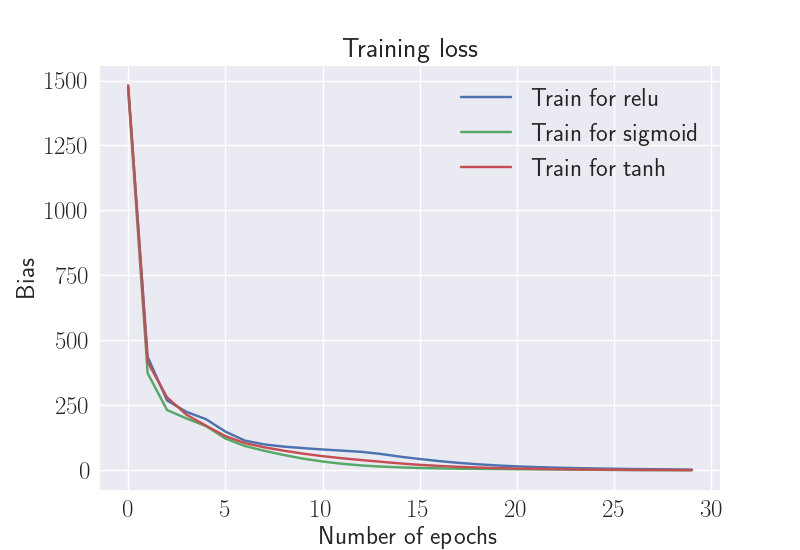
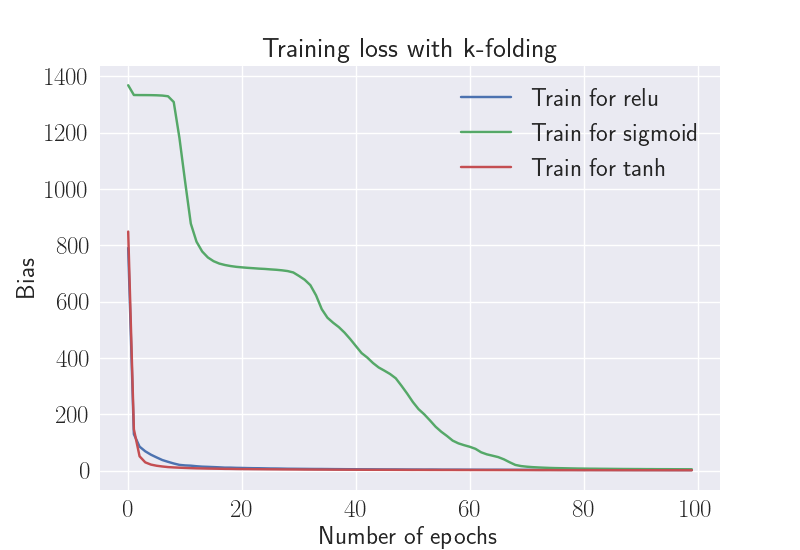
lagt til plott for simple og kfold

diff --git a/Project3/Code/run_NN.py b/Project3/Code/run_NN.py
@@ -8,25 +8,25 @@ from sklearn.preprocessing import StandardScaler
 from sklearn.decomposition import PCA
 
 from NN_methods import NeuralNetwork
-from plot import plot_bias_accuracy
+from plot import plot_bias_accuracy, plot_bias_accuracy_simple
 from common import prepare_data
 
 # Prepare some data
-# N_samples = 5000
-# eeg, pos_list = prepare_data(N_samples)
-eeg = np.load(f'data/eeg_100.npy')
-pos_list = np.load(f'data/pos_list_100.npy')
+N_samples = 5000
+eeg, pos_list = prepare_data(N_samples)
+#eeg = np.load(f'data/eeg_100.npy')
+#pos_list = np.load(f'data/pos_list_100.npy')
 pos_list = pos_list.T
 
 # Define initial parameters
 inputsize = eeg.shape[1]
 N_layers = 5
 N_neurons = 100
-N_epochs = 30 #100
+N_epochs = 100 #100 30
 batch_size = 30
 eta = 0.0001
 lmbd = 1e-6
-N_folds = 5 #10
+N_folds = 10 #10 5
 
 # Scale the data and append noice
 scaler = StandardScaler()
@@ -35,28 +35,39 @@ eeg = scaler.transform(eeg)
 eeg += np.random.normal(0,0.1, eeg.shape)
 X_train, X_test, y_train, y_test = train_test_split(eeg, pos_list, test_size=0.2)
 
-
 model = NeuralNetwork(X_train, X_test, y_train, y_test)
 
 #Run simple DNN
-def run_simple_DNN(act_func):
-    pred, loss, val_loss, accuracy, val_accuracy = model.simple(
-                                                    inputsize, N_layers, N_neurons,
-                                                    N_epocs, batch_size, eta, lmbd,
-                                                    act_func
-                                                    )
+def run_simple_DNN(act_funcs):
+    loss_array = np.zeros((len(act_funcs), N_epochs), dtype=object)
+    val_loss_array = np.zeros_like(loss_array)
+    accuracy_array = np.zeros_like(loss_array)
+    val_accuracy_array = np.zeros_like(loss_array)
 
-    print("Predictions without k-folding")
-    print(pred[0:5])
-    print(y_test[0:5])
+    for i in range(len(act_funcs)):
+        pred, loss, val_loss, accuracy, val_accuracy = model.simple(
+                                                    inputsize, N_layers, N_neurons,
+                                                    N_epochs, batch_size,
+                                                    eta, lmbd, act_funcs[i]
+                                                    )
+        loss_array[i, :] = loss
+        val_loss_array[i, :] = val_loss
+        accuracy_array[i, :] = accuracy
+        val_accuracy_array[i, :] = val_accuracy
+
+        print("Predictions without k-folding using {act_funcs[i]}:")
+        print(pred[0:5])
+        print(y_test[0:5])
+
+    plot_bias_accuracy_simple(loss_array, val_loss_array, accuracy_array, val_accuracy_array, N_epochs, act_funcs)
 
 # Run DNN with k-folding with different activation functions
 def run_kfold_DNN(act_funcs):
     # act_funcs = ['relu', 'sigmoid', 'tanh']
-    loss = np.zeros((3, N_epochs))
-    val_loss = np.zeros_like(loss)
-    val_loss = np.zeros_like(loss)
-    accuracy = np.zeros_like(loss)
+    loss_array = np.zeros((len(act_funcs), N_epochs))
+    val_loss_array = np.zeros_like(loss_array)
+    accuracy_array = np.zeros_like(loss_array)
+    val_accuracy_array = np.zeros_like(loss_array)
 
     for i in range(len(act_funcs)):
         pred, target_data, loss, val_loss, accuracy, val_accuracy = model.kfold(
@@ -64,11 +75,10 @@ def run_kfold_DNN(act_funcs):
                                                         N_epochs, N_folds, batch_size,
                                                         eta, lmbd, act_funcs[i]
                                                         )
-
-        loss[i,:] = np.mean(loss, axis=0)
-        val_loss[i, :] = np.mean(val_loss, axis=0)
-        accuracy[i, :] = np.mean(accuracy, axis=0)
-        val_accuracy[i, :] = np.mean(val_accuracy, axis=0)
+        loss_array[i,:] = np.mean(loss, axis=0)
+        val_loss_array[i, :] = np.mean(val_loss, axis=0)
+        accuracy_array[i, :] = np.mean(accuracy, axis=0)
+        val_accuracy_array[i, :] = np.mean(val_accuracy, axis=0)
 
         print(f"Predictions with k-folding using {act_funcs[i]}:")
         print("Pediction:")
@@ -76,7 +86,7 @@ def run_kfold_DNN(act_funcs):
         print("Target:")
         print(target_data[-1][0:5][:])
 
-    plot_bias_accuracy(loss, val_loss, accuracy, val_accuracy, N_epochs, act_funcs)
+    plot_bias_accuracy(loss_array, val_loss_array, accuracy_array, val_accuracy_array, N_epochs, act_funcs)
 
 # Run PCA with k-folding
 def run_kfold_PCA(act_func):
@@ -89,12 +99,13 @@ def run_kfold_PCA(act_func):
                                                 xx.shape[1], N_layers, N_neurons,
                                                 N_epochs, N_folds, batch_size,
                                                 eta, lmbd, act_func
+
                                                 )
 
     loss = np.mean(loss, axis=0)
     val_loss = np.mean(val_loss, axis=0)
     accuracy = np.mean(accuracy, axis=0)
-    accuracy = np.mean(val_accuracy, axis=0)
+    val_accuracy = np.mean(val_accuracy, axis=0)
 
     print(f"Predictions for PCA with k-folding using {act_func}:")
     print("Pediction:")
@@ -102,8 +113,6 @@ def run_kfold_PCA(act_func):
     print("Target:")
     print(target_data[-1][0:5][:])
 
-
-
-# run_simple_DNN('relu')
-run_kfold_DNN(['relu', 'sigmoid', 'tanh'])
-# run_kfold_PCA('relu')
+run_simple_DNN(['relu', 'sigmoid', 'tanh'])
+run_kfold_DNN(['relu', 'sigmoid', 'tanh']) #, 'sigmoid', 'tanh'])
+run_kfold_PCA('relu')

diff --git a/Project3/Code/plot.py b/Project3/Code/plot.py
@@ -6,16 +6,17 @@ plt.rc('text', usetex=True)
 plt.rc('text.latex', preamble=r'\usepackage{amsmath}')
 
 def plot_bias_accuracy(loss, val_loss, accuracy, val_accuracy, N_epochs, act_funcs):
+
     fig1 = plt.figure()
     ax1 = fig1.add_subplot()
-    ax1.set_title('Training loss', fontsize=20)
+    ax1.set_title('Training loss with k-folding', fontsize=20)
     ax1.set_xlabel('Number of epochs', fontsize=18)
     ax1.set_ylabel('Bias', fontsize=18)
     ax1.tick_params(axis='both', which='major', labelsize=18)
 
     fig2 = plt.figure()
     ax2 = fig2.add_subplot()
-    ax2.set_title('Validation loss', fontsize=20)
+    ax2.set_title('Validation loss with k-folding', fontsize=20)
     ax2.set_xlabel('Number of epochs', fontsize=18)
     ax2.set_ylabel('Bias', fontsize=20)
     ax2.tick_params(axis='both', which='major', labelsize=18)
@@ -23,7 +24,7 @@ def plot_bias_accuracy(loss, val_loss, accuracy, val_accuracy, N_epochs, act_fun
 
     fig3 = plt.figure()
     ax3 = fig3.add_subplot()
-    ax3.set_title('Training accuracy', fontsize=20)
+    ax3.set_title('Training accuracy with k-folding', fontsize=20)
     ax3.set_xlabel('Number of epochs', fontsize=18)
     ax3.set_ylabel('Accuracy', fontsize=18)
     ax3.tick_params(axis='both', which='major', labelsize=18)
@@ -31,7 +32,7 @@ def plot_bias_accuracy(loss, val_loss, accuracy, val_accuracy, N_epochs, act_fun
 
     fig4 = plt.figure()
     ax4 = fig4.add_subplot()
-    ax4.set_title('Validation accuracy', fontsize=20)
+    ax4.set_title('Validation accuracy with k-folding', fontsize=20)
     ax4.set_xlabel('Number of epochs', fontsize=18)
     ax4.set_ylabel('Accuracy', fontsize=18)
     ax4.tick_params(axis='both', which='major', labelsize=18)
@@ -56,5 +57,53 @@ def plot_bias_accuracy(loss, val_loss, accuracy, val_accuracy, N_epochs, act_fun
     fig3.savefig(f'../Plots/accuracy')
     fig4.savefig(f'../Plots/val_accuracy')
 
+def plot_bias_accuracy_simple(loss, val_loss, accuracy, val_accuracy, N_epochs, act_funcs):
+    fig1 = plt.figure()
+    ax1 = fig1.add_subplot()
+    ax1.set_title('Training loss without k-folding', fontsize=20)
+    ax1.set_xlabel('Number of epochs', fontsize=18)
+    ax1.set_ylabel('Bias', fontsize=18)
+    ax1.tick_params(axis='both', which='major', labelsize=18)
+
+    fig2 = plt.figure()
+    ax2 = fig2.add_subplot()
+    ax2.set_title('Validation loss without k-folding', fontsize=20)
+    ax2.set_xlabel('Number of epochs', fontsize=18)
+    ax2.set_ylabel('Bias', fontsize=20)
+    ax2.tick_params(axis='both', which='major', labelsize=18)
 
 
+    fig3 = plt.figure()
+    ax3 = fig3.add_subplot()
+    ax3.set_title('Training accuracy without k-folding', fontsize=20)
+    ax3.set_xlabel('Number of epochs', fontsize=18)
+    ax3.set_ylabel('Accuracy', fontsize=18)
+    ax3.tick_params(axis='both', which='major', labelsize=18)
+
+
+    fig4 = plt.figure()
+    ax4 = fig4.add_subplot()
+    ax4.set_title('Validation accuracy without k-folding', fontsize=20)
+    ax4.set_xlabel('Number of epochs', fontsize=18)
+    ax4.set_ylabel('Accuracy', fontsize=18)
+    ax4.tick_params(axis='both', which='major', labelsize=18)
+
+
+    for i in range(len(act_funcs)):
+        # plot loss during training
+        ax1.plot(loss[i], label=f'Train for {act_funcs[i]}')
+        ax1.legend(fontsize=18)
+        # Plot validation loss
+        ax2.plot(val_loss[i], label=f'Test for {act_funcs[i]}')
+        ax2.legend(fontsize=18)
+        # plot accuracy during training
+        ax3.plot(accuracy[i], label=f'Train for {act_funcs[i]}')
+        ax3.legend(fontsize=18)
+        # plot validation accuracy
+        ax4.plot(val_accuracy[i], label=f'Test for {act_funcs[i]}')
+        ax4.legend(fontsize=18)
+
+    fig1.savefig(f'../Plots/loss_simple')
+    fig2.savefig(f'../Plots/val_loss_simple')
+    fig3.savefig(f'../Plots/accuracy_simple')
+    fig4.savefig(f'../Plots/val_accuracy_simple')

diff --git a/Project3/Code/NN_methods.py b/Project3/Code/NN_methods.py
@@ -14,6 +14,10 @@ class NeuralNetwork:
 
     def simple(self, inputsize, N_layers, N_neurons, N_epochs, batch_size, eta, lmbd, act_func):
         model = Sequential()
+        loss = []
+        val_loss = []
+        accuracy = []
+        val_accuracy = []
         #Input Layer
         model.add(
             Dense(N_neurons,
@@ -33,8 +37,8 @@ class NeuralNetwork:
 
         # Fit data to model
         fit_ = model.fit(
-                self.X_train, self.y_train, N_epochs,
-                batch_size, verbose=0,
+                self.X_train, self.y_train, batch_size,
+                N_epochs, verbose=0,
                 validation_data=(self.X_test, self.y_test)
                 )
         print('Training completed')
@@ -45,7 +49,8 @@ class NeuralNetwork:
         accuracy = fit_.history['accuracy'] # train accuracy
         val_accuracy = fit_.history['val_accuracy'] # test accuracy
 
-        return pred, loss, val_loss, accuracy, val_accuracy
+        return pred, np.array(loss), np.array(val_loss), np.array(accuracy), np.array(val_accuracy)
+        #loss, val_loss, accuracy, val_accuracy
 
 
     def kfold(self, inputsize, N_layers, N_neurons, N_epochs, N_folds, batch_size, eta, lmbd, act_func):
@@ -100,4 +105,3 @@ class NeuralNetwork:
             fold_no = fold_no + 1
         print('Training completed')
         return pred, target_data, np.array(loss), np.array(val_loss), np.array(accuracy), np.array(val_accuracy)
-
